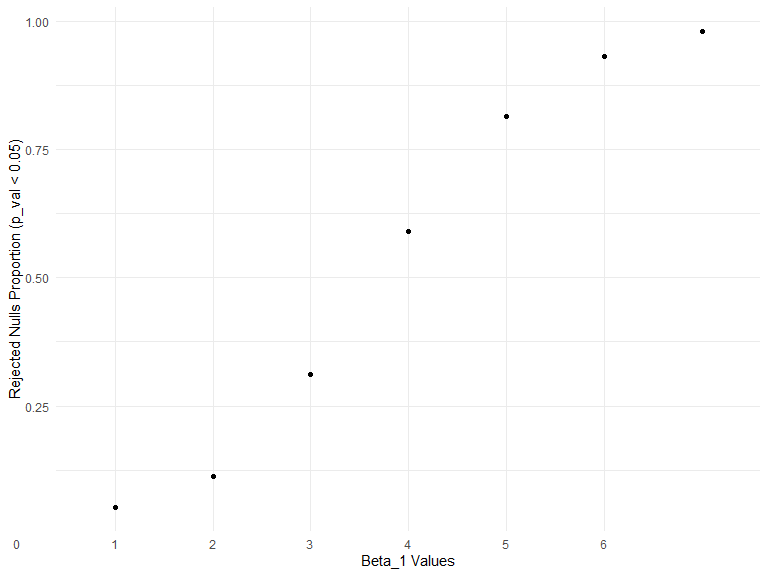
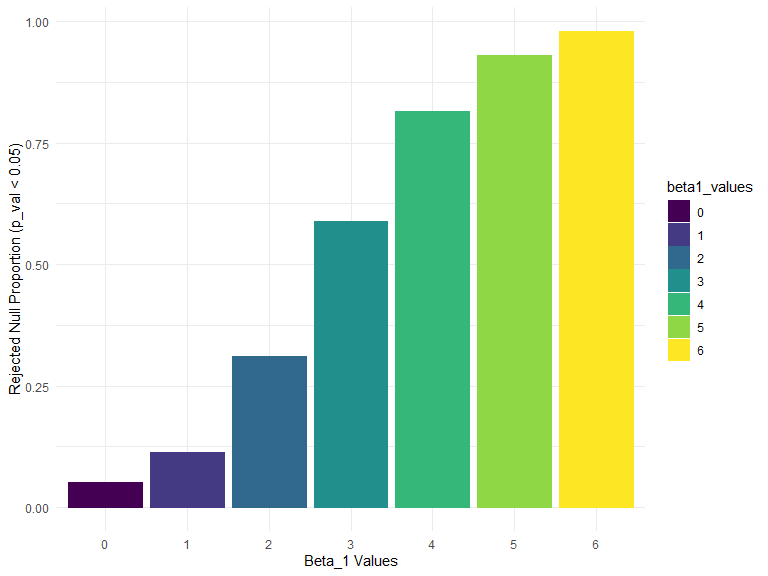
added last plot. it took forever to knit!

diff --git a/p8105_hw5_ha2546.md b/p8105_hw5_ha2546.md
@@ -365,28 +365,46 @@ sim_results %>%
     proportion = reject_null/n
   ) %>% 
   mutate (
-    beta1_values = as.factor(beta1_values)
+    beta1_values = factor(beta1_values)
   ) %>% 
-  ggplot(aes(x = beta1_values, y = proportion)) +
-  geom_point() +
-  scale_x_discrete(limits=c(0, 1, 2, 3, 4, 5, 6)) +
+  ggplot(aes(x = beta1_values, y = proportion, color = beta1_values, fill = beta1_values)) +
+  geom_bar(stat="identity") +
   labs(
     x= "Beta_1 Values",
-    y = "Rejected Nulls Proportion (p_val < 0.05)",
+    y = "Rejected Null Proportion (p_val < 0.05)",
     title = NULL,
     caption = NULL
-  )
+  ) 
 ```
 
 <img src="p8105_hw5_ha2546_files/figure-gfm/unnamed-chunk-2-1.png" width="90%" />
-Describe the association between effect size and power.
+Describe the association between effect size and
+power.
 
 ``` r
-# sim_results %>% 
-#   group_by(beta1_values) %>% 
-#   summarize(
-#     beta1_hat_mean = mean(beta1_hat)
-#   ) %>% 
-#   ggplot(aes(x = beta1_values, y = beta1_hat)) +
-#     geom_point() + geom_line()
+df1 = sim_results %>%                             # defining a dataframe, summarizing all beta_1 hat mean
+  group_by(beta1_values) %>%
+  summarize(
+    beta1_hat_mean = mean(beta1_hat)
+  )
+
+df2 = sim_results %>%                             # definig a dataframe, summarizing beta_1 hat mean
+  filter(p_value < 0.05) %>%                      # samples with rejected null
+  group_by(beta1_values) %>%
+  summarize(
+    beta1_hat_mean = mean(beta1_hat)
+  )
+
+comparison_plot = ggplot() +                      # using above dataframes to overlay two plots showing the trends
+  geom_point(data = df1, aes(x = beta1_values, y = beta1_hat_mean)) +
+  geom_line(data = df1, aes(x = beta1_values, y = beta1_hat_mean), color = "#FDE725FF") +
+  geom_point(data = df2, aes(x = beta1_values, y = beta1_hat_mean)) +
+  geom_line(data = df2, aes(x = beta1_values, y = beta1_hat_mean), color = "#482677FF") +
+  labs(
+    title = "    beta_1 estimates in different beta_1 values
+    in all sample (yellow line) vs. samples with rejected null (purple line)",
+    x = "beta_1 Values",
+    y = "Mean beta_1 Estimate",
+    caption = NULL
+  )
 ```
